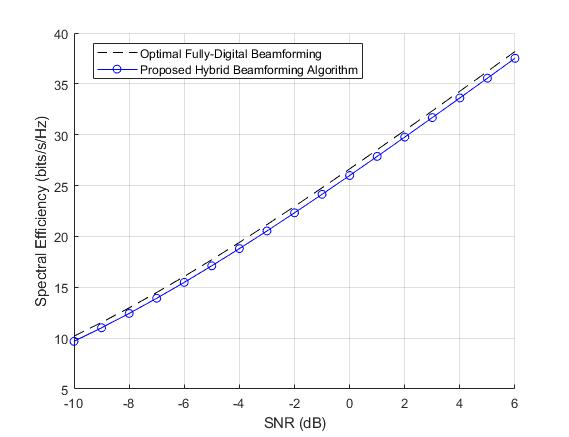
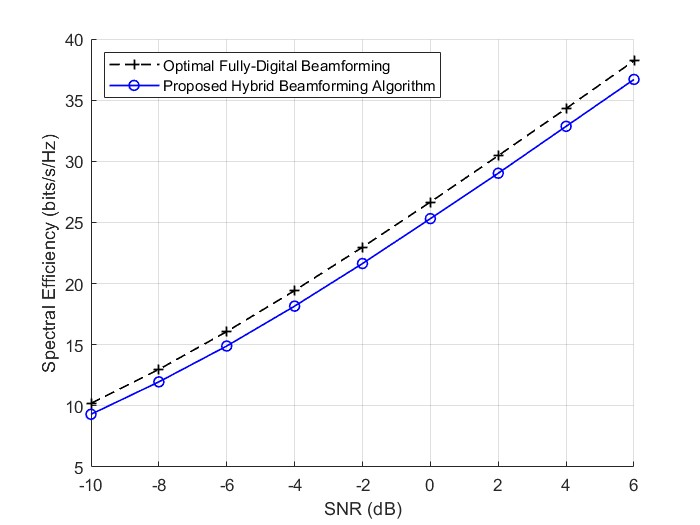
fix errors in algorithm 1

diff --git a/main_su.m b/main_su.m
@@ -1,15 +1,16 @@
-% Last revised: Mar 15, 2023
+% Fig. 2: Single-User with Infinite Solution Phase Shifters
+% Last revised: August 04, 2023
 % Zekai Liang, liang@ice.rwth-aachen.de
 
-%% Fig 2: SU, capacity, infinite solution
+%% System Parameters
 numAntTx = 64;
 numAntRx = 16;
 numPath = 15;
 numStream = 6;
-numRfTx = numStream; % recommend to design Nrf=Ns even Ns<Nrf<2Ns
+numRfTx = numStream;
 numRfRx = numRfTx;
 
-snrVecDb = (-10:6).';
+snrVecDb = (-10:2:6).';
 snrVec = 10.^(snrVecDb/10);
 snrLen = length(snrVec);
 
@@ -18,83 +19,82 @@ numMC = 100;  % number of iterations for Monte-Carlo simulation
 % generate and save channels first for Monte-Carlo simulation
 % generate_and_save_channel(numAntTx,numAntRx,numPath,numMC);
 
-% initial variables
-capSVD = 0;     % capacity for fully-digital beamformer
-capPropTx = 0;  % TX analog
-capProp = 0;    % TX + RX
-capPropRx = 0;  % capacity only RX beamforanalog part
+% Initial Variables
+capFd = 0;     % capacity for fully-digital beamforming
+capProp = 0;    % capacity for hybrid beamforming
 
 for iMC = 1:numMC
-    % Generate Channels
+    %% Generate Channels
     % generate or load one channel instance
-    % chn = generate_channel(numAntTx,numAntRx,numPath)
-    load(['./data/channels/channel-',num2str(iMC),'.mat']);
+    chn = generate_channel(numAntTx,numAntRx,numPath);
+    % load(['./data/channels_64x16/channel-',num2str(iMC),'.mat']);
     
-    %%% Fully-Digital Beamforming, No Water-Filling
-    [~,svVal,V] = svd(chn);  % transmit fully-digital beamformer V*V'~=I!
-    svVal = diag(svVal);
-    svdGain = svVal(1:numStream).^2;
+    %% Fully-Digital Beamforming
+    % SVD Decomposition of the Channel: H = U*D*V'
+    gainChn = maxk(eig(chn'*chn),numStream);
     
-    % check the pwer of the beamformer
-    bfDigital = V(:,1:numStream);
-    powBfDigital = trace(bfDigital'*bfDigital);  % equals to numStream, since V is unitary
-    
-    % Since we consider the SNR, we have to make P=1. Therefore, we need to
-    % compensate with a power factor to make the power of beamformer to be 1,
-    % i.e., add factor 1/numStream and make sure Tr(svdGain*svdGain')=1
-    capSvdThis = log2(1 + 1/numStream*svdGain*snrVec.');
-    capSvdThis = sum(capSvdThis).';
-    capSVD = capSVD + capSvdThis;
+    % Note 1: Without loss of generality, set the noise power to be 1, so
+    % that SNR is equivalent to the power. 
+    % Note 2: If the TX and RX beamformers are respectively V and U', the
+    % power of the beamformer is equal to the number of streams. Since all
+    % the transmit power is defined in the SNR, we need to remove the power
+    % of the transmit beamformer, i.e. normalize the transmit beamformer to
+    % be unit power.
+    capFdTmp = sum( log2(1 + 1/numStream*gainChn*snrVec.') ).';
+    capFd = capFd + capFdTmp;
 
-    %%% Proposed Algorithm
-    capTxTmp = zeros(snrLen,1);
-    capRxTmp = zeros(snrLen,1);
+    %% Proposed Algorithm
     capPropTmp = zeros(snrLen,1);
-
-    for snrInd = 1:snrLen
-        % TX analog part by assuming Vd*Vd~=gamma^2*.I
+    Vrf = 0;
+    for iSnr = 1:snrLen
+        % TX Analog Part (Large-Scale Antenna Assumption Vd*Vd~=gamma^2*I)
         F1 = chn' * chn;
-        [Vrf,capTxTmp(snrInd)] = hbf_algorithm1(F1,snrVec(snrInd),numAntTx,numRfTx,numStream);
+        [Vrf,~] = hbf_algorithm1(F1,snrVec(iSnr),numRfTx);
+        % Vrf = exp(1i*2*pi*rand(numAntTx,numRfTx)); % DELETE
         
-        % TX, no water-filling (assume equal power)
+        % TX Digital Part
         Q = Vrf'*Vrf;     % Nrf-by-Nrf
         Heff = chn*Vrf;   % Nt-by-Nrf
         [~,~,V] = svd(Heff*Q^(-1/2));
-        Vd = Q^(-1/2)*V(:,1:numStream)/sqrt(numStream);  % normalize to trace(Vd*Vrf'*Vrf*Vd)=1
-
-        % RX analog part with hair in the toilent
-        Vt = Vrf*Vd;
-        F2 = chn*(Vt*Vt')*chn';
-        [Wrf,capRxTmp(snrInd)] = hbf_algorithm1(F2,snrVec(snrInd),numAntRx,numRfRx,numStream);
         
-        % RX digital part, MMSE
-        J = Wrf'*(chn*(Vt*Vt')*chn')*Wrf+1/snrVec(snrInd)*(Wrf'*Wrf);
-        Wd = J^(-1)*Wrf'*chn*Vt;
+        % Original Model. Assume Equal Power on Each Stream
+        Vd = Q^(-1/2)*V(:,1:numStream)/sqrt(numStream);  % normalize to norm(Vrf*Vd,'fro')=1
+        
+        % A Simplified Model, Assume Equal Power on Each Stream: Vd~=gamma*Ue
+        % Vd = V(:,1:numStream)/sqrt(numRfTx*numAntTx);
 
-        % Calculate the capacity
-        Wt = Wrf*Wd;
-%         Wt = Wt/norm(Wt,'fro')*sqrt()
-        capPropTmp(snrInd) = abs(log2(det( eye(numAntRx)+snrVec(snrInd)*Wt*(Wt'*Wt)^(-1)*Wt'*(chn*(Vt*Vt')*chn') )));
+        % RX Analog Part
+        Vt = Vrf*Vd;     % normalized to be 1
+        F2 = snrVec(iSnr)*chn*(Vt*Vt')*chn';
+        [Wrf,~] = hbf_algorithm1(F2,numAntRx,numRfRx);
+        % Wrf = exp(1i*2*pi*rand(numAntRx,numRfRx)); % DELETE
+        
+        % RX Digital Part, MMSE
+        J = snrVec(iSnr)*Wrf'*(chn*(Vt*Vt')*chn')*Wrf + Wrf'*Wrf;
+        Wd = sqrt(snrVec(iSnr))*J^(-1)*Wrf'*chn*Vt;
+
+        % The Overall Hybrid Combiner
+        Wt = Wrf*Wd; % Note: the power of Wt doesn't affect capacity
+
+        % The Capacity
+        capPropTmp(iSnr) = abs(log2(det( eye(numAntRx) + ...
+            snrVec(iSnr)*Wt*(Wt'*Wt)^(-1)*Wt'*(chn*(Vt*Vt')*chn') )));
     end
 
-    % record for Monte-Carlo
-    capPropTx = capPropTx + capTxTmp;
-    capPropRx = capPropRx + capRxTmp;
+    % Record for Monte-Carlo
     capProp = capProp + capPropTmp;
 
 end
 
 % average to obtain final capacity
-capSVD = capSVD / numMC;
+capFd = capFd / numMC;
 capProp = capProp / numMC;
 
 % plot figure
 figure();
 grid on; hold on;
-plot(snrVecDb,capSVD,'k--',snrVecDb,capProp,'b-o');
+plot(snrVecDb,capFd,'k--+',snrVecDb,capProp,'b-o',LineWidth=1);
 xlabel('SNR (dB)');
 ylabel('Spectral Efficiency (bits/s/Hz)')
-legend('Optimal Fully-Digital Beamforming','Proposed Hybrid Beamforming Algorithm')
-
-
-%% MU
+lgd = legend('Optimal Fully-Digital Beamforming','Proposed Hybrid Beamforming Algorithm');
+lgd.Location = "northwest";

diff --git a/hbf_algorithm1.m b/hbf_algorithm1.m
@@ -1,46 +1,74 @@
-function [BF,cap] = hbf_algorithm1(F,snr,numAnt,numRf,numStream)
-% Convergence threshold
+function [V,C] = hbf_algorithm1(F,alpha,numColV)
+% HBF_ALGORITHM1 solves the following optimization problem by an iterative
+% coordinate descent algorithm.
+%
+%                   max_Vrf    C = log2(det( I + alpha*V'*F*V ))
+%                    s.t.      |V(i,j)|^2 <= 1, for all i, j
+%
+% where V is a numRowV-by-numColV matrix, F is a numColV-by-numColV matrix.
+% alpha is a scalar containing SNR value in linear.
+% The objective function can be rewritten to a simpler form by decomposing
+% matrix F blockwise, i.e.
+%
+%                          | scalar,  | row vector |
+%                     F =  | ---------|------------|
+%                          |  column  |            |
+%                          |  vector, |    matrix  |
+%
+% Input(s):
+% - F: a square matrix.
+% - alpha: a scalar.
+% - numRowV: the number of rows for matrix V
+%
+% Output(s):
+% - V: a matrix.
+% - C: a scalar.
+
+% Make Sure F is A Square Matrix
+numRowV = size(F);
+if numRowV(1)~=numRowV(2), error('F should be a square matrix!'); end
+numRowV = numRowV(1);
+
+% Convergence Threshold
 epsilon = 10^-3;
 
-% Initialize analog beamformer with size #ant-by-#RFchain
-BF = 1/sqrt(numAnt)*exp(1i*2*pi*rand([numAnt,numRf]));
+% Initialize V
+V = exp(1i*2*pi*rand([numRowV,numColV]));
 
-% Calculate initial capacity
-% Note that it doesn't matter if we normalize analog beamformer with
-% 1/sqrt(numRf) or not. Since later we have to obtain digital beamformer,
-% and there we will assure the combined hybrid beamformer has unit power.
-cap = abs(log2(det( eye(numRf)+snr*BF'*F*BF )));
+% Calculate Initial Capacity
+C = abs(log2(det( eye(numColV) + alpha*V'*F*V )));
 
-% Obtain transmit analog beamformer
-
-% Reset variables
+% Initialize Variables
 diff = inf;
 count = 0;
 
 while diff > epsilon
-    for rfInd = 1:numRf
-        VrfBar = BF;
-        VrfBar(:,rfInd) = [];
-        Cj = eye(numStream-1) + snr*VrfBar'*F*VrfBar;
-        Gj = snr*F-snr^2*F*VrfBar*Cj^(-1)*VrfBar'*F;
-        for aInd = 1:numAnt
-            gj = Gj(aInd,:);
-            gj(rfInd) = [];
-            vrfj = BF(:,rfInd);
-            vrfj(rfInd) = [];
-            BF(aInd,rfInd) = 1/sqrt(numAnt)*exp(1i*angle(gj*vrfj));  % note: update the current Vrf
+    for iCol = 1:numColV
+        VrfBar = V;
+        VrfBar(:,iCol) = [];
+        Cj = eye(numColV-1) + alpha*VrfBar'*F*VrfBar;
+        Gj = alpha*F - alpha^2*F*VrfBar*Cj^(-1)*VrfBar'*F;
+        for iRow = 1:numRowV
+            % Obtain Vector Gj(i,l) and Vrf(l,j) Where l~=i
+            gj = Gj(iRow,:);
+            gj(iRow) = [];
+            vrfj = V(:,iCol);
+            vrfj(iRow) = [];
+
+            % Eq.(14) Determines Vrf(i,j) value
+            V(iRow,iCol) = exp(1i*angle(gj*vrfj));
         end
     end
 
-    % Calculate new capacity, assuming Vd*Vd'=I
-    capTxTmp = abs(log2(det( eye(numRf) + snr*BF'*F*BF )));
-    diff = abs(capTxTmp-cap)/capTxTmp;
-    cap = capTxTmp;
+    % Calculate the New Capacity, Assuming Vd*Vd'=I
+    cNew = abs(log2(det( eye(numColV) + alpha*V'*F*V )));
+    diff = abs(cNew-C)/C;
+    C = cNew;
 
-    % count how many iterations to converge
+    % Count How Many Iterations to Converge
     count = count+1;
 end
 
-% record the final capacity
-disp(['SNR=',num2str(10*log10(snr)),'dB: converged after ',num2str(count),' iterations.']);
+% Display Which Iteration We Are In
+% disp(['For alpha=',num2str(alpha),': converged after ',num2str(count),' iterations.']);
 end

diff --git a/main_mu_finite.m b/main_mu_finite.m
@@ -1,5 +1,5 @@
-% Multiuser with Finite-Resolution Phase Shifters
-% Last revised: July 08, 2023
+% Fig. 6: Multiuser with Finite-Resolution Phase Shifters
+% Last revised: August 04, 2023
 % Zekai Liang, liang@ice.rwth-aachen.de
 
 %% Settings
@@ -233,7 +233,7 @@ capRef32QuanSum = capRef32QuanSum/numMC;
 
 %% Plot Figure
 figure;
-plot(snrVecDb,capFdSum,'--k',snrVecDb,capPropSum,'--ok',...
+plot(snrVecDb,capFdSum,'k--+',snrVecDb,capPropSum,'--ok',...
     snrVecDb,capPropQuan1Sum,'--db',snrVecDb,capPropQuan2Sum,'--squareb',...
     snrVecDb,capRef33Sum,'-^r', snrVecDb,capRef33QuanSum,'-vr',...
     snrVecDb,capRef32Sum,'-.xg', snrVecDb,capRef32QuanSum,'-.|g',LineWidth=1);
@@ -241,10 +241,11 @@ hold on;
 grid on;
 xlabel('SNR (dB)');
 ylabel('Sum Rate (bits/s/Hz)');
-legend("Fully-Digital ZF","Proposed Algorithm for N^{RF}=5, b=\infty",...
+lgd = legend("Fully-Digital ZF","Proposed Algorithm for N^{RF}=5, b=\infty",...
     "Proposed Algorithm for N^{RF}=5, b=1, quantize final",...
     "Proposed Algorithm for N^{RF}=5, b=1, quantize intermediate",...
     "Hybrid beamforming in [33], N^{RF}=4, b=\infty", ...
     "Hybrid beamforming in [33], N^{RF}=4, b=1", ...
     "Hybrid Beamforming in [32], N^{RF}=4, b=\infty", ...
     "Hybrid Beamforming in [32], N^{RF}=4, b=1");
+lgd.Location = "northwest";

diff --git a/main_mu.m b/main_mu.m
@@ -1,5 +1,5 @@
-% Multiuser with Infinite-Resolution Phase Shifters
-% Last revised: July 07, 2023
+% Fig. 5: Multiuser with Infinite-Resolution Phase Shifters
+% Last revised: August 04, 2023
 % Zekai Liang, liang@ice.rwth-aachen.de
 
 %% Settings
@@ -174,12 +174,13 @@ capRef32Sum = capRef32Sum/numMC;
 
 %% Plot Figure
 figure;
-plot(snrVecDb,capFdSum,':k',snrVecDb,capPropSum,'-ob',...
+plot(snrVecDb,capFdSum,'k--+',snrVecDb,capPropSum,'-ob',...
     snrVecDb,capRef33Sum,'->r',snrVecDb,capRef32Sum,'-<g',LineWidth=1);
 hold on;
 grid on;
 xlabel('SNR (dB)');
 ylabel('Sum Rate (bits/s/Hz)');
-legend("Fully-Digital ZF","Proposed Algorithm for N^{RF}=9",...
+lgd = legend("Fully-Digital ZF","Proposed Algorithm for N^{RF}=9",...
     "Hybrid beamforming in [33], N^{RF}=8", ...
     "Hybrid Beamforming in [32], N^{RF}=8");
+lgd.Location = "northwest";

diff --git a/generate_channel.m b/generate_channel.m
@@ -11,13 +11,11 @@ function [chnMat,chnAll] =  generate_channel(numAntTx, numAntRx, numPath)
 % - chnMat: the generated channel matrix with size numAntRx-by-numAntTx
 % - chnAll: all information for this geometric channel model
 %
-% -Last revised: June. 22, 2023
-% -Zekai Liang, liang@ice.rwth-aachen.de
 
-gain = 1/sqrt(2)*randn(numPath,1) + 1i/sqrt(2)*randn(numPath,1);
-phaseTx = 2*pi*rand(numPath,1);
+gain = 1/sqrt(2)*randn(numPath,1) + 1i/sqrt(2)*randn(numPath,1); % path gain, following CN(0,1)
+phaseTx = 2*pi*rand(numPath,1); % random phase U(0,2pi)
 phaseRx = 2*pi*rand(numPath,1);
-d = 1/2;
+d = 1/2; % antenna space half wavelength
 k = 2*pi;  % 2*pi*lambda*d
 
 % array factor in matrix form (numAnt x numPath)

diff --git a/README.md b/README.md
@@ -1,22 +1,18 @@
 # SimLit-2016-JSTSP-Sohrabi
 
-Code Copyrighted by Zekai Liang, liang@ice.rwth-aachen.de.
-
 Reproduce results in the following paper using Matlab:
 
-- Sohrabi, F. & Yu, W. (2016). Hybrid digital and analog beamforming design
-  for large-scale antenna arrays. *IEEE Journal of selected topics in signal
-  processing, 10*(3). https://doi.org/10.1109/JSTSP.2016.2520912
+- Sohrabi, F. & Yu, W. (2016). Hybrid digital and analog beamforming design for large-scale antenna arrays. *IEEE Journal of Selected Topics in Signal processing, 10*(3), pp. 501-513. https://doi.org/10.1109/JSTSP.2016.2520912
 
 ## Brief Introduction of This Paper
 
-This paper introduces a HBF precoding and combining scheme, where beamforming at TX and RX are decoupled, i.e., optimized separately.
+This paper introduces a HBF precoding and combining scheme, where beamforming at TX and RX are decoupled, i.e., optimized separately. A precoder is usually referred to the beamformer at the transmitter, while combiner at the receiver.
 
 **It should be highlighted that the scheme proposed in this paper requires at least $K+1$ RF chains, while most of the other related references assume the number of RF chains is equal to the number of users**.
 
 ### Single-User Case
 
-In the precoder at the transmitter, the digital and analog beamformers are decoupled, where one is optimized assuming another is fixed. The digital beamformer is found by solving the capacity maximization problem with *Water-Filling* algorithm. The methodology to find the analog beamformer is to obtain solutions of the reformulated problem by iterative coordinate descent problem.  
+In the precoder, the digital and analog beamformers are decoupled, where one is optimized assuming another is fixed. The digital beamformer is found by maximizing the capacity with power constraint, which is solved by *SVD* and *Water-Filling* algorithm. The analog beamformer is obtained by using an iterative coordinate descent algorithm to solve a reformulated capacity maximization problem with a relaxed unit norm constraint.  
 
 In the combiner at the receiver, the hybrid beamformer is optimized separately as the precoder. With fixed digital beamformer, the analog beamformer can be optimized in the very similar scheme as the precoder. The digital beamformer is MMSE.
 
